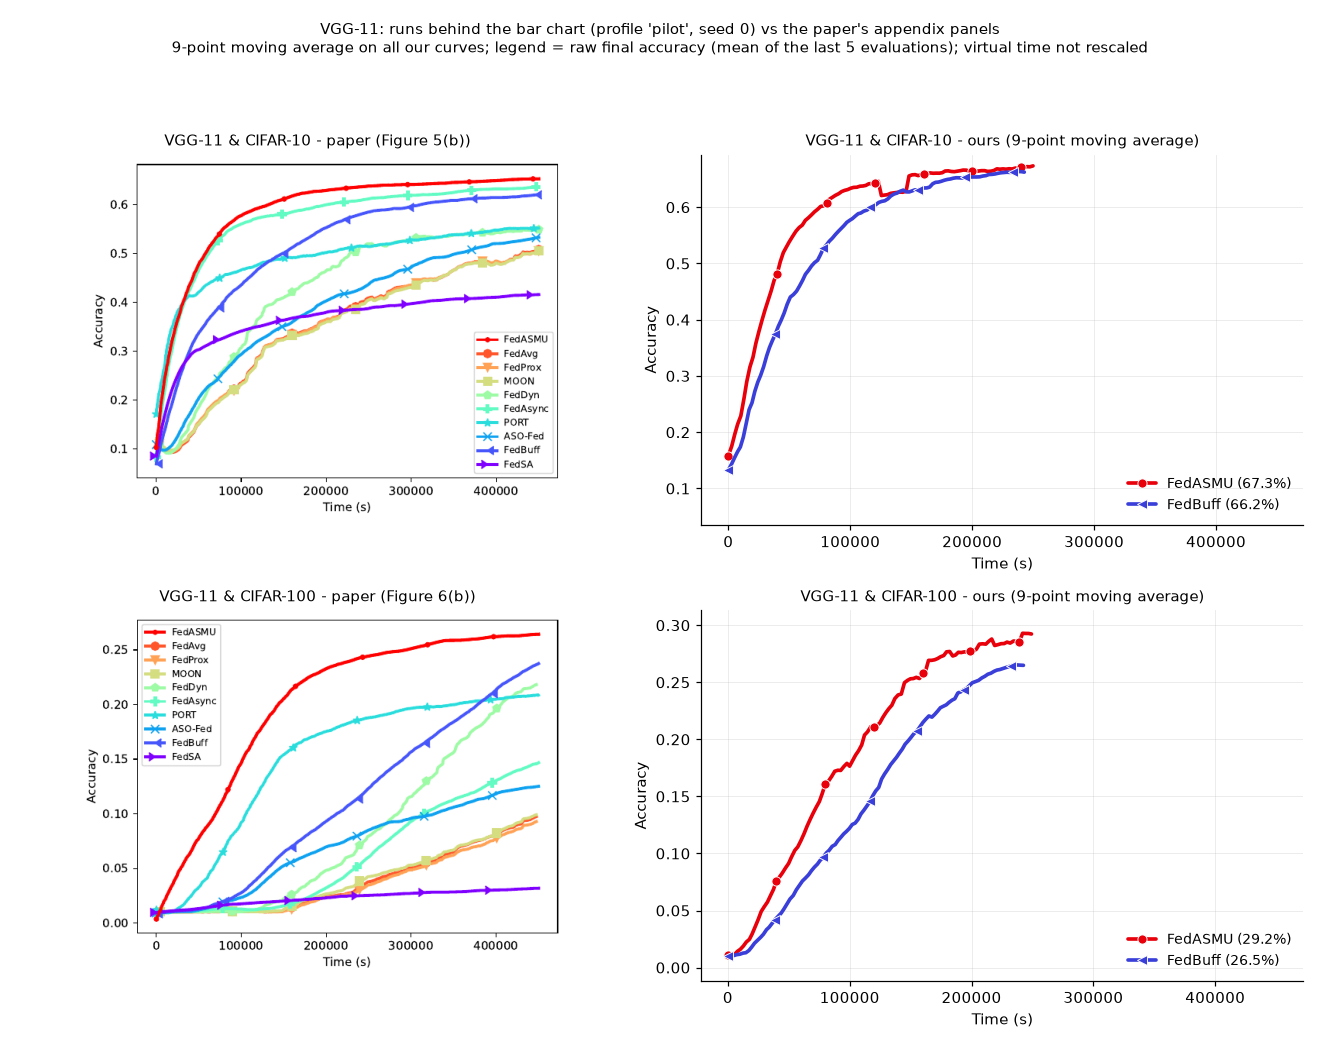
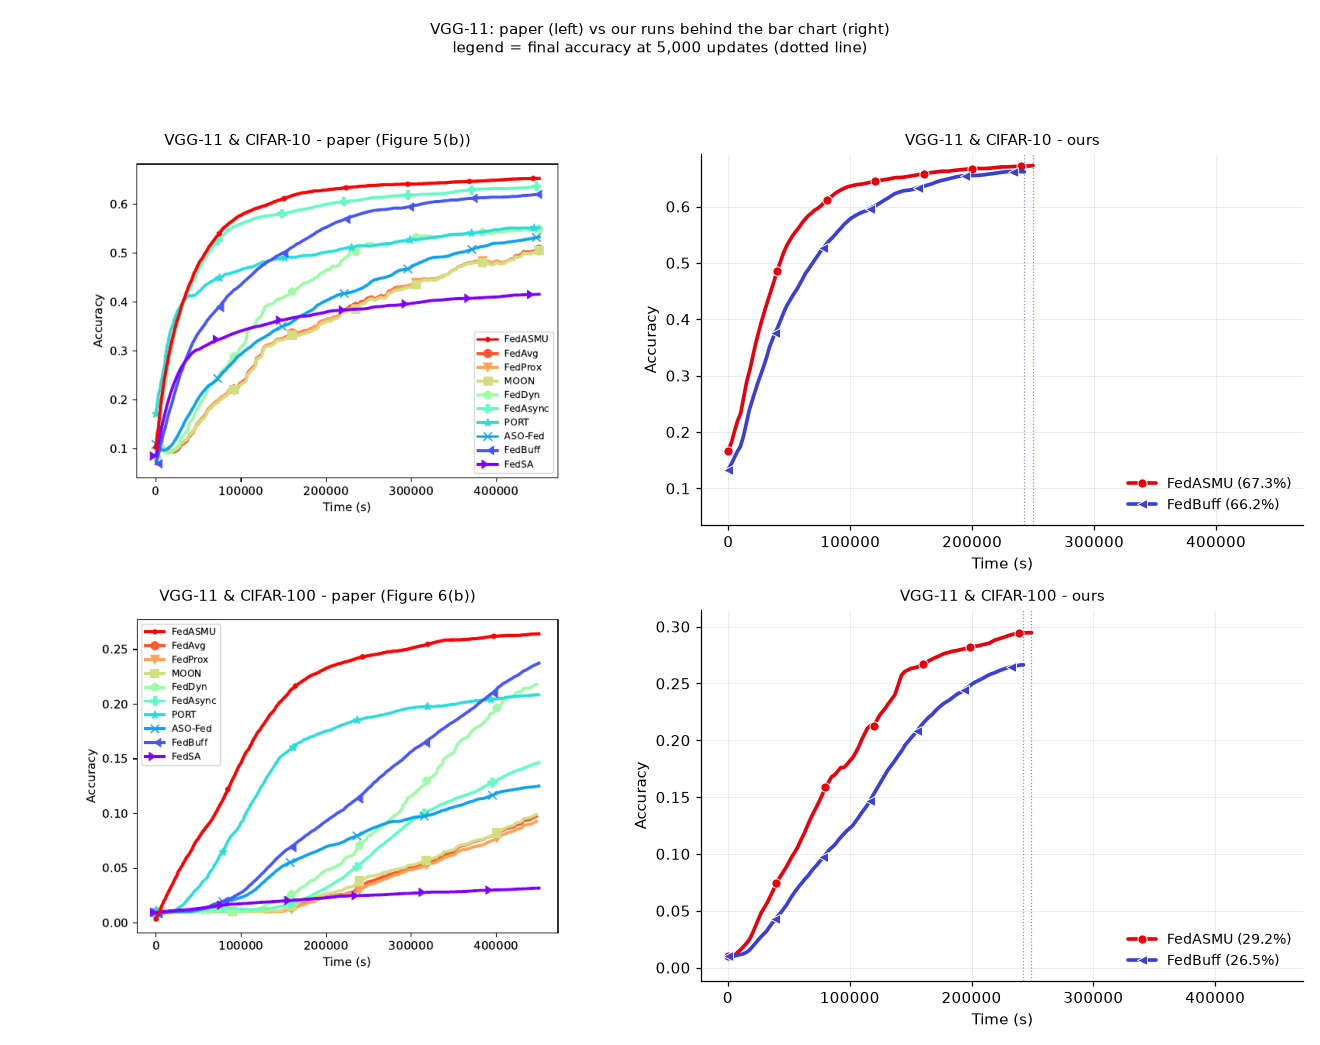
VGG pilot figure: no smoothing text in titles, running-median + mean smoothing, 5,000-update marker; continuation of the pilot runs to 9,500 updates queued

diff --git a/scripts/vgg_pilot_figure.py b/scripts/vgg_pilot_figure.py
@@ -5,9 +5,14 @@
 
 Columns: paper panel (unchanged crop) | our FedASMU and FedBuff curves (the two methods of the
 bar chart) on the paper's x axis, y axis widened only as far as needed so that nothing is cut.
-Our curves are smoothed with a centred moving average over 9 evaluations (all curves alike, stated
-in the title); the legend gives the raw final accuracy = mean of the last 5 evaluations (as in the
-bar chart).  Time = our virtual time, unscaled."""
+The four runs were continued from their 5,000-update checkpoints to 9,500 updates (profile
+'pilotext', same config, only the budget raised) so that the curves cover the paper's time axis
+with real data; until a continuation exists the 5,000-update run is drawn.  The dotted vertical
+line marks 5,000 updates, where the bar-chart values were taken; the legend gives those values
+(mean of the last 5 evaluations up to 5,000 updates).
+Smoothing (all curves alike; tables use raw values): a centred running median over 5 evaluations
+(removes single-evaluation dips such as 0.41 at 2,700 updates on CIFAR-10) followed by a centred
+moving average over 9 evaluations.  Time = our virtual time, unscaled."""
 import json
 import os
 
@@ -27,8 +32,12 @@ WL = [("cifar10", "VGG-11 & CIFAR-10", "Figure 5(b)"), ("cifar100", "VGG-11 & CI
 
 
 def ev_of(prof, ds, algo):
-    ev = pd.read_csv(os.path.join(MET, f"{prof}_vgg11_{ds}_{algo}_s0", "eval.csv"))
-    return ev.drop_duplicates(subset=["received", "global_version"], keep="last")
+    ext = os.path.join(MET, f"{prof}ext_vgg11_{ds}_{algo}_s0", "eval.csv")
+    path = ext if os.path.exists(ext) else os.path.join(MET, f"{prof}_vgg11_{ds}_{algo}_s0", "eval.csv")
+    ev = pd.read_csv(path)
+    ev = ev.drop_duplicates(subset=["received", "global_version"], keep="last").reset_index(drop=True)
+    ev.attrs["run"] = os.path.basename(os.path.dirname(path))
+    return ev
 
 
 def main():
@@ -43,7 +52,9 @@ def main():
         ax[r, 0].axis("off")
         ax[r, 0].set_title(f"{title} - paper ({pfig})", fontsize=10)
         data = {n: ev_of(p, ds, al) for n, p, al, _, _ in RUNS}
-        sm = {n: d.test_acc.rolling(SMOOTH, center=True, min_periods=1).mean() for n, d in data.items()}
+        sm = {n: d.test_acc.rolling(5, center=True, min_periods=1).median()
+                    .rolling(SMOOTH, center=True, min_periods=1).mean() for n, d in data.items()}
+        bar = {n: d[d.received <= 5000].tail(5).test_acc.mean() for n, d in data.items()}
         ymax = max(a["ylim"][1], max(v.max() for v in sm.values()) + 0.02)
         xmax = max(a["xlim"][1], max(d.vtime.max() for d in data.values()) * 1.03)
         dy = a["yticks"][1] - a["yticks"][0]
@@ -53,7 +64,9 @@ def main():
             d = data[n]
             x.plot(d.vtime, sm[n], color=col, lw=2.4, marker=mk, ms=6, markevery=max(len(d) // 6, 1),
                    markeredgecolor="white", markeredgewidth=0.6, solid_capstyle="round",
-                   label=f"{n} ({d.tail(5).test_acc.mean() * 100:.1f}%)")
+                   label=f"{n} ({bar[n] * 100:.1f}%)")
+            t5 = d[d.received <= 5000].vtime.iloc[-1]
+            x.axvline(t5, color=col, lw=0.8, ls=":", alpha=0.6)
         x.set_xlim(a["xlim"][0], xmax)
         x.set_ylim(a["ylim"][0], ymax)
         x.set_xticks(a["xticks"])
@@ -65,14 +78,15 @@ def main():
         for sp in ("top", "right"):
             x.spines[sp].set_visible(False)
         x.legend(fontsize=9, loc="lower right", frameon=False)
-        x.set_title(f"{title} - ours ({SMOOTH}-point moving average)", fontsize=10)
+        x.set_title(f"{title} - ours", fontsize=10)
         for n, p, al, _, _ in RUNS:
-            rows.append(dict(workload=key, method=n, run=f"{p}_vgg11_{ds}_{al}_s0",
-                             final_acc_pct=round(data[n].tail(5).test_acc.mean() * 100, 2),
+            rows.append(dict(workload=key, method=n, run=data[n].attrs["run"],
+                             final_acc_pct_at_5000=round(bar[n] * 100, 2),
+                             final_acc_pct_at_end=round(data[n].tail(5).test_acc.mean() * 100, 2),
+                             last_received=int(data[n].received.iloc[-1]),
                              last_vtime_s=round(data[n].vtime.iloc[-1])))
-    f.suptitle("VGG-11: runs behind the bar chart (profile 'pilot', seed 0) vs the paper's appendix panels\n"
-               f"{SMOOTH}-point moving average on all our curves; legend = raw final accuracy (mean of the last 5 "
-               "evaluations); virtual time not rescaled", fontsize=10)
+    f.suptitle("VGG-11: paper (left) vs our runs behind the bar chart (right)\n"
+               "legend = final accuracy at 5,000 updates (dotted line)", fontsize=10)
     f.tight_layout(rect=(0, 0, 1, 0.94))
     f.savefig(os.path.join(OUT, "vgg11_pilot_vs_paper.png"), dpi=110)
     pd.DataFrame(rows).to_csv(os.path.join(OUT, "final_acc.csv"), index=False)
